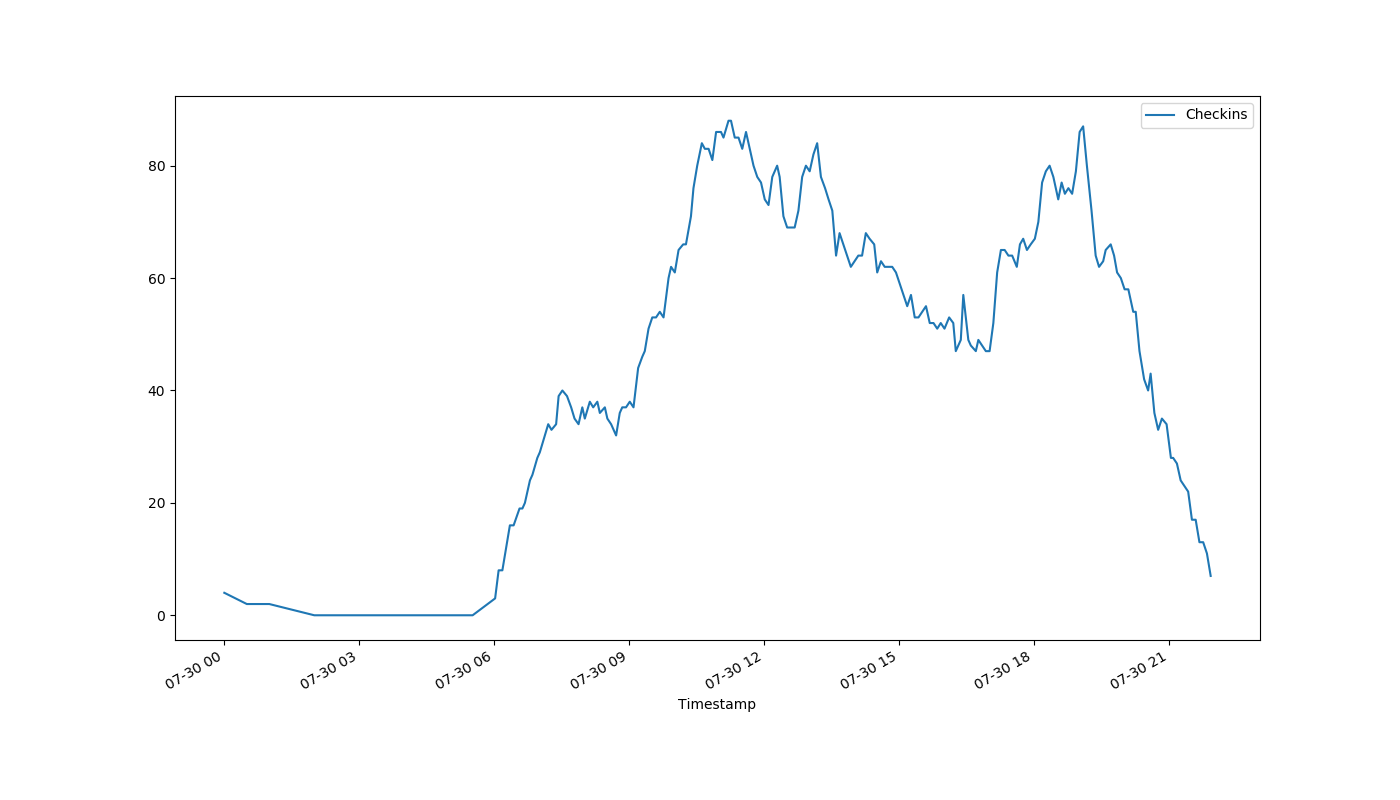
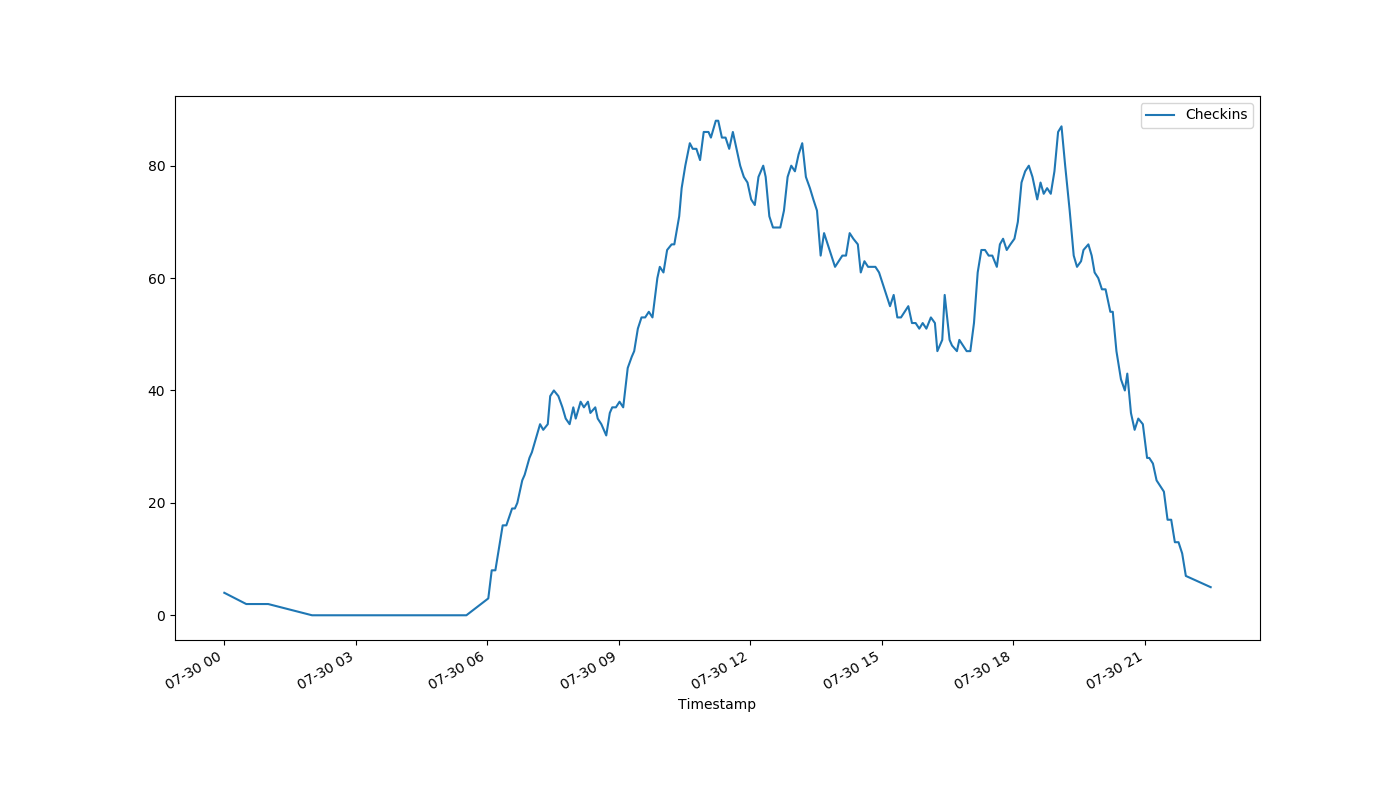
auto-Jul-30-22:31:22

diff --git a/index.html b/index.html
@@ -1,1 +1,1 @@
-<!DOCTYPE html><html><head><meta http-equiv="refresh" content="30"><link rel='stylesheet' href='holmcurrent.css'></head><body><p id='count'>7</p><div id='graph-wrap'><img id='graph' src='holmgraph-Jul-30.png'></div><p id='updated'>Last updated 21:56:17 / 21:56:09</p></body></html>
+<!DOCTYPE html><html><head><meta http-equiv="refresh" content="30"><link rel='stylesheet' href='holmcurrent.css'></head><body><p id='count'>5</p><div id='graph-wrap'><img id='graph' src='holmgraph-Jul-30.png'></div><p id='updated'>Last updated 22:30:18 / 22:30:10</p></body></html>
